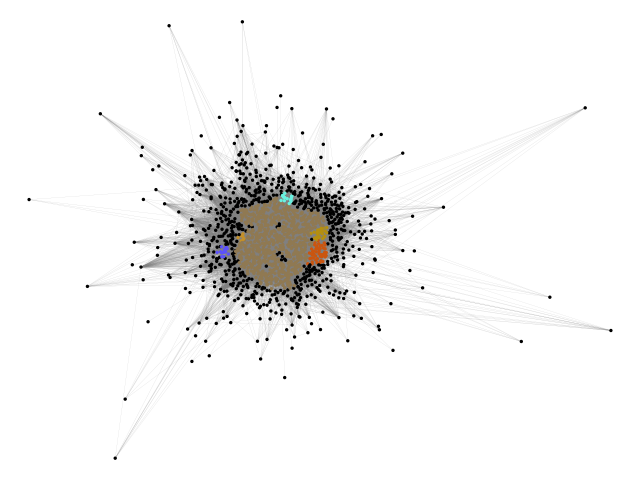
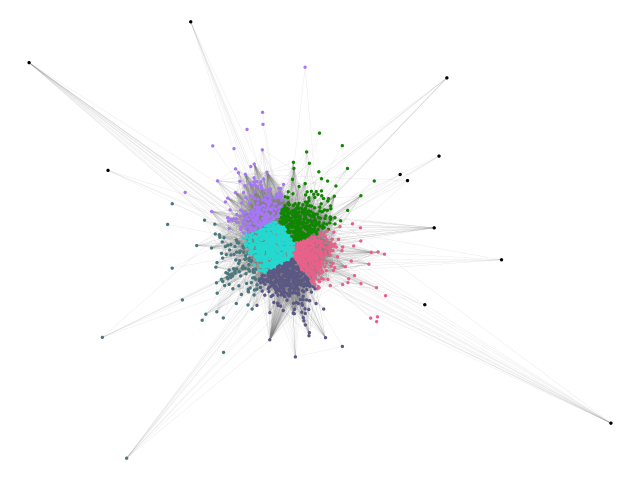
v1 + scikit-learn

diff --git a/graphAnalyzer.py b/graphAnalyzer.py
@@ -6,6 +6,7 @@ import matplotlib.pyplot as plt
 from time import time
 import fa2
 import numpy as np
+from sklearn.cluster import KMeans
 
 
 def graphAnalyzer(graph):
@@ -22,7 +23,7 @@ def graphAnalyzer(graph):
     pr = PageRank.PageRank(G)
     pr.constructDispersionMatrix(G)
     pr = pr.getPageRank()
-    print(len(set(pr)))
+    print(max(pr))
 
     # ----------------------------------- Clustering Computation --------------------------------------
 
@@ -46,30 +47,51 @@ def graphAnalyzer(graph):
         # Log
         verbose=True)
 
+    # pos is a dict with keys node name avec value the positions 2-uple
     pos = forceatlas2.forceatlas2_networkx_layout(G,
                                                   pos=None,
-                                                  iterations=300);
+                                                  iterations=1000);
 
-    pos = {key: np.array([elt[0], elt[1]]) for key, elt in pos.items()}
+    # converting positions into a list of np.array
+    pos_list = [np.array([elt[0], elt[1]]) for key, elt in pos.items()]
 
-    pos_transf = dbscan_tes.transf(pos)  # changing position format to be able to use it in DBSCAN
+    # clustering the nodes according to the AffinityPropagation algorithm using scikit-learn
+    clustering = KMeans().fit(pos_list)
+    clustering = clustering.labels_
+    print(clustering)
 
-    clusters = dbscan_tes.dbscan(pos_transf, 24, 16)
+    # retrieving the index of nodes in each cluster and creating a dict where key is
+    # the cluster number and value a list of all the nodes in that cluster
+    clusters = {}
+    for index, elt in enumerate(list(clustering)):
+        try:
+            clusters[elt].append(index)
+        except KeyError:
+            clusters[elt] = [index]
+
+    # filtering the cluster : categorizing cluster with length < 10 as noises (cluster number 0)
+    filtered_cluster, k = {0: []}, 1
+    for key, elt in clusters.items():
+        if len(clusters[key]) > 10:
+            filtered_cluster[k] = elt
+            k += 1
+        else:
+            filtered_cluster[0].extend(elt)
+
+    clusters = filtered_cluster
 
     cluster_with_pr = associatingPageRankToNode(pr, clusters)
 
-    # sorting each cluster according to page rank result
-    for key in cluster_with_pr.keys():
-        cluster_with_pr[key] = sorted(cluster_with_pr[key], key=lambda item: (item[1], item[0]))
+    # sort each cluster by page rank
+    for key, value in cluster_with_pr.items():
+        cluster_with_pr[key] = sorted(value, key=lambda item: (item[1], item[0]))
 
-    # list of 2-uples containing the highest page rank node from each cluster
-    highest_pr_per_cluster = [cluster_with_pr[key][0] for key in cluster_with_pr.keys()]
-
-    # sorting this list by page rank
-    highest_pr_per_cluster = sorted(highest_pr_per_cluster, key=lambda item: (item[1], item[0]))
-
-    for elt in highest_pr_per_cluster:
-        print(list(G.nodes())[elt[0]], " page rank : ", elt[1])
+    for key, value in cluster_with_pr.items():
+        try:
+            node_index = value[-1][0]
+            print(list(G.nodes())[node_index], "page rank :", value[-1][1])
+        except IndexError:
+            pass
 
     # ----------------------------------- Graph Creation --------------------------------------
 
@@ -77,7 +99,8 @@ def graphAnalyzer(graph):
     get_colors = lambda n: list(map(lambda i: "#" + "%06x" % random.randint(0, 0xFFFFFF), range(n)))
 
     colors = get_colors(len(clusters.keys()) + 1)
-    node_color = ['black' for _ in range(len(G.nodes()))]
+    colors[0] = 'black'
+    node_color = ['' for _ in range(len(G.nodes()))]
     for key, value in clusters.items():
         for elt in value:
             node_color[elt] = colors[key]
